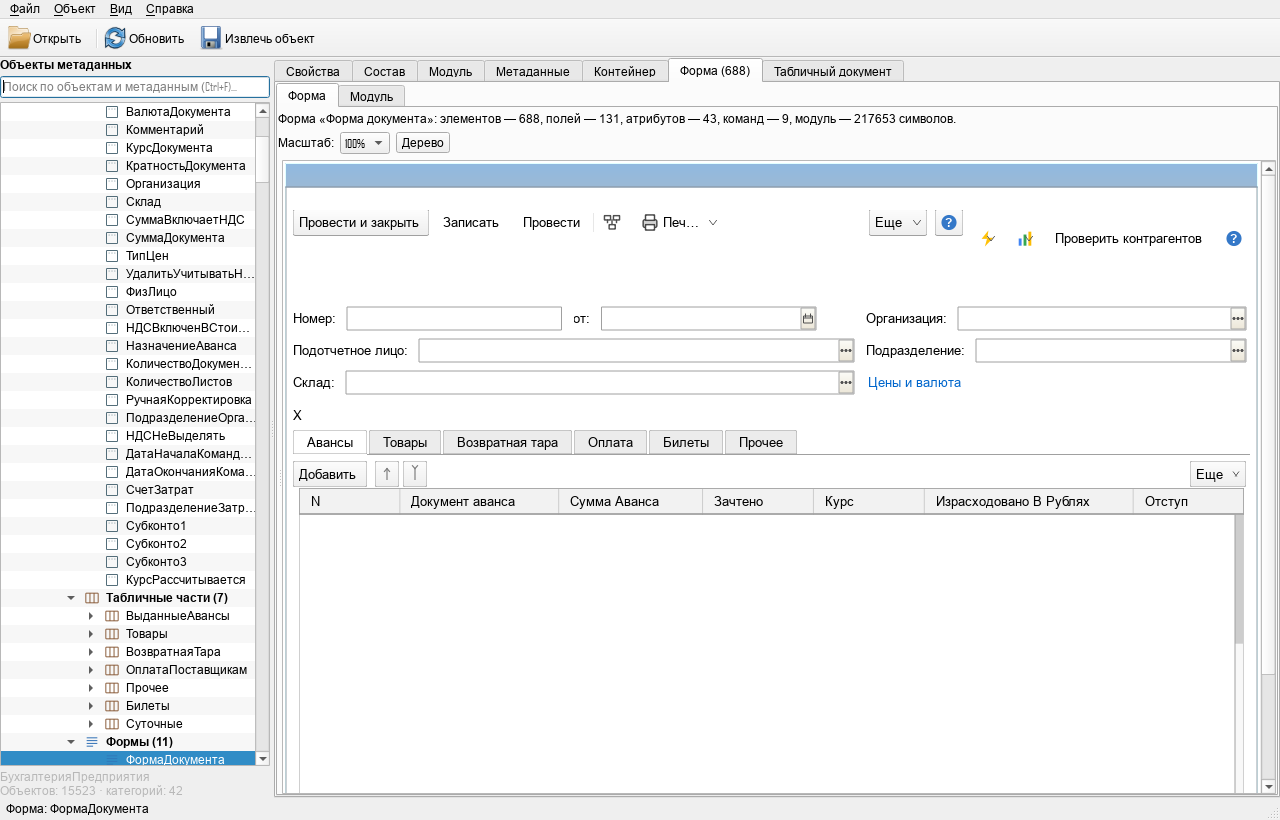
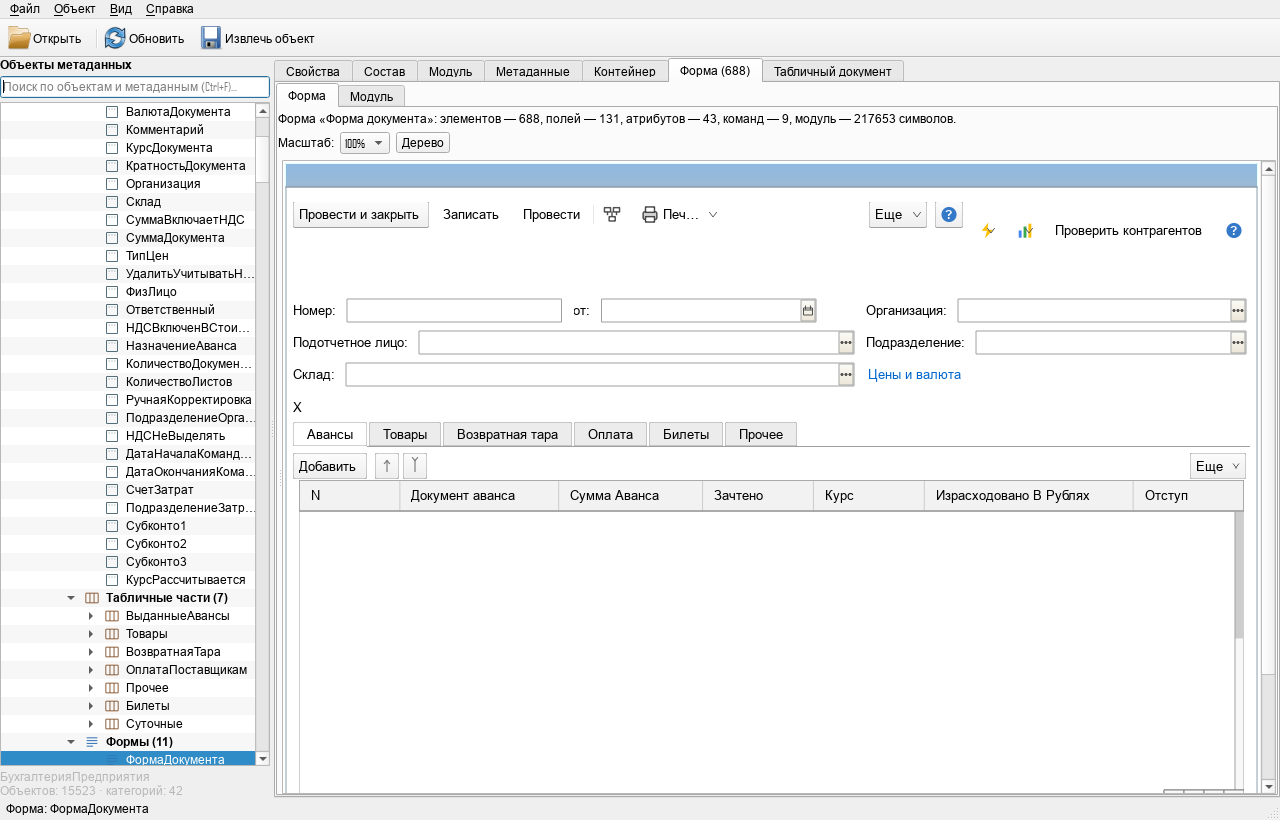
fix(forms): выравнивание строк и шапка 31 px

Changed region(s): [[0.2188, 0.3659, 0.9688, 0.6402], [0.2188, 0.2439, 0.5312, 0.3049], [0.6875, 0.2439, 0.9688, 0.3049]]

diff --git a/src/gui/FormView.cpp b/src/gui/FormView.cpp
@@ -1682,7 +1682,7 @@ private:
         }
 
         for (PreviewControl &control : controls)
-            control.rect.translate(margin, titleBarHeight + 22.0);
+            control.rect.translate(margin, titleBarHeight + 14.0);
         m_controls = controls;
         m_contentHeight = contentHeight;
         double logicalHeight = qBound(280.0,

diff --git a/src/gui/controls/FormStyle.h b/src/gui/controls/FormStyle.h
@@ -20,7 +20,7 @@ inline const QColor alternateRow(250, 250, 250);
 inline const QColor separator(208, 208, 208);
 
 inline constexpr double buttonHeight = 26.0;
-inline constexpr double tableHeaderHeight = 26.0;
+inline constexpr double tableHeaderHeight = 31.0;
 inline constexpr double tableRowHeight = 20.0;
 
 } // namespace FormStyle

diff --git a/CHANGELOG.md b/CHANGELOG.md
@@ -121,6 +121,8 @@
   и «в конец» с градиентом, тёмной рамкой и дополнительными штрихами.
 - Иконки кнопок увеличены до 18 px, как у эталонных «Создать», копирования
   и соседних команд.
+- Строки формы выровнены по эталону: верхний отступ уменьшен, шапка
+  таблицы стала 31 px, тексты шапки и колонок совпадают по вертикали.
 - В формах элементов справочников добавлены стандартные команды
   «Записать и закрыть» и «Записать»; командная панель таких форм
   определяется и без отдельной группы кнопок.
